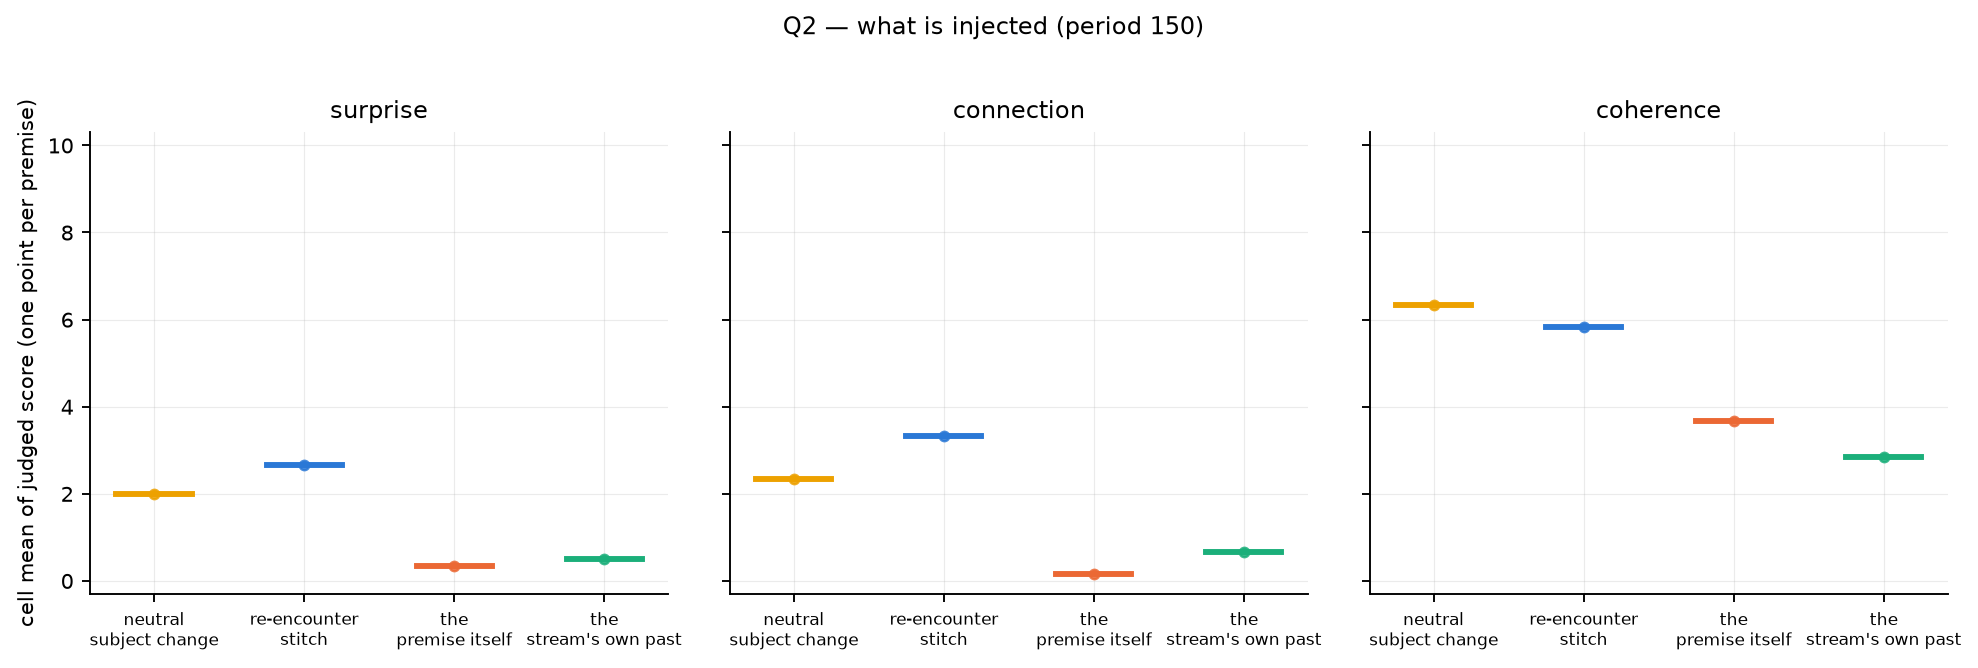
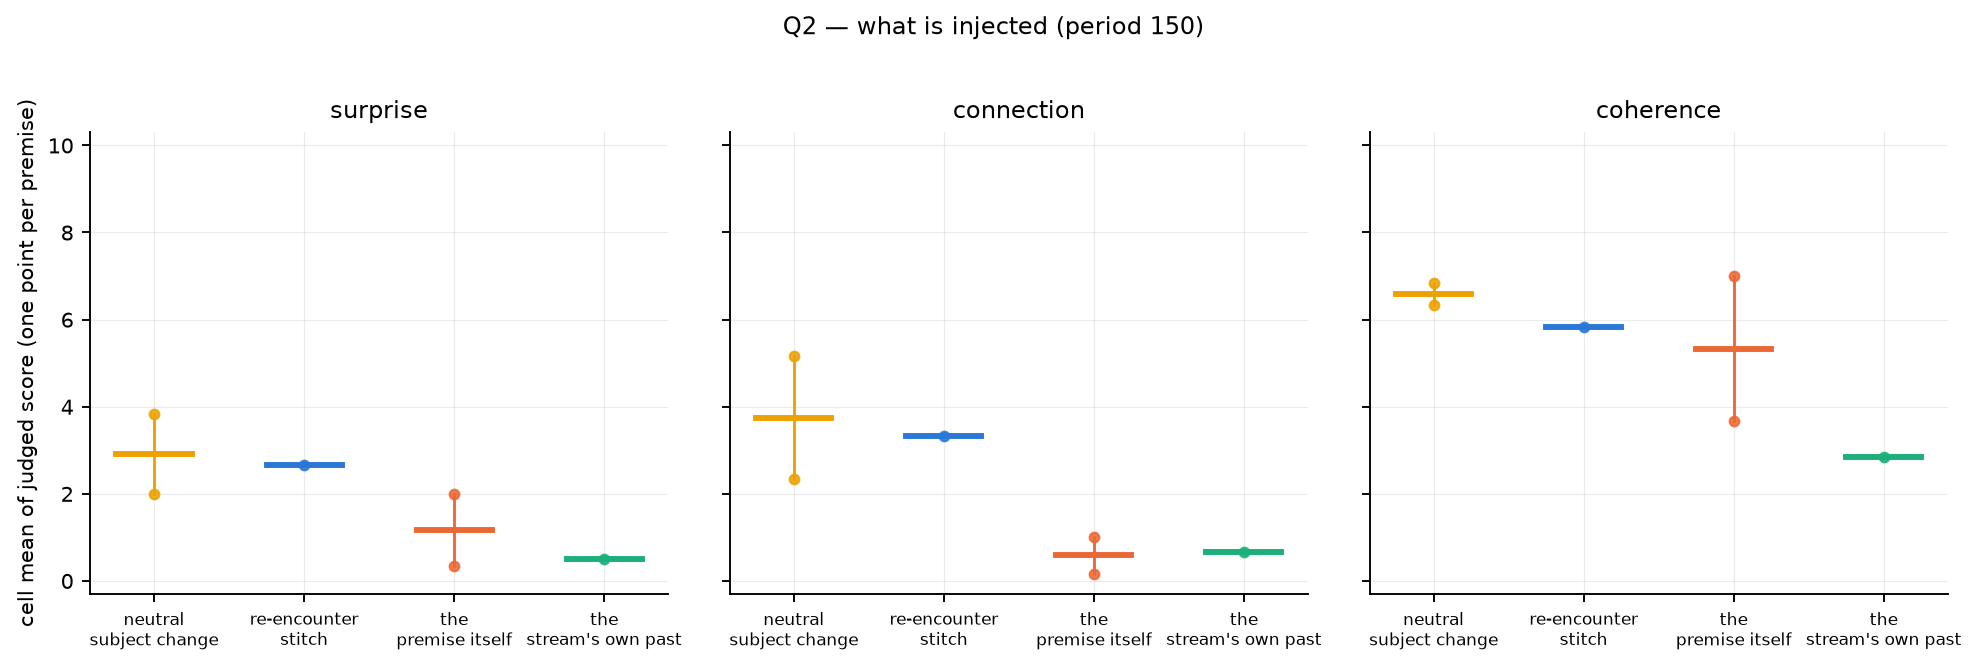
analysis_gen: protocol-agreement table (event vs generated-only condition means); rater guide v3

diff --git a/scripts/analysis_gen.py b/scripts/analysis_gen.py
@@ -246,6 +246,36 @@ def main() -> None:
         block(f"Q6 — the ladder on {name}", pool,
               [("bare", "bare"), ("bare_habit", "bare + habituation"), ("bare_reseed", "habituation + reseed 150"), ("scaffold0", "DREAM scaffold")],
               ref=1, fname=f"fig9_q6_{tag}.png")
+    # protocol agreement: condition means under the event protocol (first version) vs generated-only
+    md.append("\n### Protocol agreement — condition means, event windows (v1) vs generated-only windows (unit = cell)\n")
+    ev = []
+    for run in ("dream_scaffold", "dream_b2", "dream_b3"):
+        pth = RUNS / run / "rejudge_surprise.json"
+        if pth.exists():
+            for r in json.loads(pth.read_text()):
+                if r.get("surprise") is not None and r["step"] >= 100:
+                    ev.append({**r, "run": run, "seed": r["cell"].split("_", 1)[0]})
+    md.append("| condition | " + " | ".join(f"{d} event / gen" for d in DIMS) + " | n cells (event / gen) |")
+    md.append("|---|" + "---|" * (len(DIMS) + 1))
+    xs, ys = {d: [] for d in DIMS}, {d: [] for d in DIMS}
+    for c in sorted({r["cond"] for r in main30} & {r["cond"] for r in ev}):
+        row = [LABEL.get(c, c)]
+        ne = ng = 0
+        for d in DIMS:
+            e = cell_means(ev, c, d, "all"); g = cell_means(main30, c, d, "primary")
+            ne, ng = len(e), len(g)
+            if e and g:
+                xs[d].append(np.mean(list(e.values()))); ys[d].append(np.mean(list(g.values())))
+                row.append(f"{np.mean(list(e.values())):.2f} / {np.mean(list(g.values())):.2f}")
+            else:
+                row.append("—")
+        row.append(f"{ne} / {ng}")
+        md.append("| " + " | ".join(row) + " |")
+    from scipy.stats import spearmanr
+    for d in DIMS:
+        if len(xs[d]) >= 4:
+            rho, pv = spearmanr(xs[d], ys[d])
+            md.append(f"\nSpearman across conditions ({d}): rho = {rho:+.2f} (n = {len(xs[d])} conditions).")
     out = DOCS / "APPENDIX_GEN.md"
     out.write_text("\n".join(md) + "\n")
     print("\n".join(md)); print("->", out)

diff --git a/docs/APPENDIX_GEN.md b/docs/APPENDIX_GEN.md
@@ -2,18 +2,18 @@
 
 Windows of 96 model-generated tokens starting 32 tokens after each injection (none crossing an injection); uniform grid for uninterrupted arms; the judge sees the 600 preceding tokens as context. Unit = cell (premise); CIs are bootstrap over cells; paired comparisons use exact sign-flip permutation p-values on the 10 paired differences and Cliff's delta on cell means. Opus 5, k=5, median per window.
 
-134 judged windows on the main generator, 48 on Qwen3-8B, 40 on OLMo-2.
+216 judged windows on the main generator, 75 on Qwen3-8B, 62 on OLMo-2.
 
 
 ### Q1 — habituation × interruption (period 150) and baselines — cell means (mean over cells [95% CI over cells])
 
 | condition | n cells | surprise | connection | coherence |
 |---|---|---|---|---|
-| bare | 1 | 0.33 [nan, nan] | 0.17 [nan, nan] | 1.33 [nan, nan] |
+| bare | 2 | 0.42 [0.33, 0.50] | 0.42 [0.17, 0.67] | 1.92 [1.33, 2.50] |
 | bare + habituation | 1 | 1.50 [nan, nan] | 1.00 [nan, nan] | 4.33 [nan, nan] |
 | reseed 150, no habituation | 0 | — | — | — |
-| habituation + reseed 150 | 1 | 2.00 [nan, nan] | 2.33 [nan, nan] | 6.33 [nan, nan] |
-| DREAM scaffold | 1 | 1.50 [nan, nan] | 1.17 [nan, nan] | 4.67 [nan, nan] |
+| habituation + reseed 150 | 2 | 2.92 [2.00, 3.83] | 3.75 [2.33, 5.17] | 6.58 [6.33, 6.83] |
+| DREAM scaffold | 2 | 2.25 [1.50, 3.00] | 1.08 [1.00, 1.17] | 5.00 [4.67, 5.33] |
 | habituation 1.3 | 0 | — | — | — |
 | habituation, EOS allowed | 0 | — | — | — |
 
@@ -26,9 +26,9 @@ Windows of 96 model-generated tokens starting 32 tokens after each injection (no
 
 | condition | n cells | surprise | connection | coherence |
 |---|---|---|---|---|
-| neutral subject change | 1 | 2.00 [nan, nan] | 2.33 [nan, nan] | 6.33 [nan, nan] |
+| neutral subject change | 2 | 2.92 [2.00, 3.83] | 3.75 [2.33, 5.17] | 6.58 [6.33, 6.83] |
 | re-encounter stitch | 1 | 2.67 [nan, nan] | 3.33 [nan, nan] | 5.83 [nan, nan] |
-| the premise itself | 1 | 0.33 [nan, nan] | 0.17 [nan, nan] | 3.67 [nan, nan] |
+| the premise itself | 2 | 1.17 [0.33, 2.00] | 0.58 [0.17, 1.00] | 5.33 [3.67, 7.00] |
 | the stream's own past | 1 | 0.50 [nan, nan] | 0.67 [nan, nan] | 2.83 [nan, nan] |
 
 ### vs neutral subject change — paired by seed
@@ -58,10 +58,10 @@ Windows of 96 model-generated tokens starting 32 tokens after each injection (no
 | condition | n cells | surprise | connection | coherence |
 |---|---|---|---|---|
 | stitch on the clock 150 | 1 | 2.67 [nan, nan] | 3.33 [nan, nan] | 5.83 [nan, nan] |
-| stitch on the clock 900 | 1 | 4.00 [nan, nan] | 5.00 [nan, nan] | 8.00 [nan, nan] |
-| neutral change 900 | 1 | 2.60 [nan, nan] | 1.80 [nan, nan] | 6.80 [nan, nan] |
+| stitch on the clock 900 | 2 | 3.40 [2.80, 4.00] | 3.25 [2.80, 3.70] | 6.30 [5.80, 6.80] |
+| neutral change 900 | 2 | 2.60 [2.60, 2.60] | 2.00 [1.80, 2.20] | 6.80 [6.80, 6.80] |
 | stitch on salience events | 1 | 2.50 [nan, nan] | 1.50 [nan, nan] | 5.00 [nan, nan] |
-| salience only | 2 | 1.25 [1.00, 1.50] | 0.50 [0.00, 1.00] | 4.83 [4.67, 5.00] |
+| salience only | 2 | 0.83 [0.17, 1.50] | 0.50 [0.00, 1.00] | 3.58 [2.50, 4.67] |
 
 ### vs stitch on the clock 900 — paired by seed
 
@@ -72,10 +72,10 @@ Windows of 96 model-generated tokens starting 32 tokens after each injection (no
 
 | condition | n cells | surprise | connection | coherence |
 |---|---|---|---|---|
-| 150 | 1 | 2.00 [nan, nan] | 2.33 [nan, nan] | 6.33 [nan, nan] |
+| 150 | 2 | 2.92 [2.00, 3.83] | 3.75 [2.33, 5.17] | 6.58 [6.33, 6.83] |
 | 300 | 1 | 1.67 [nan, nan] | 1.83 [nan, nan] | 6.67 [nan, nan] |
 | 600 | 1 | 2.33 [nan, nan] | 1.50 [nan, nan] | 7.50 [nan, nan] |
-| 900 | 1 | 2.60 [nan, nan] | 1.80 [nan, nan] | 6.80 [nan, nan] |
+| 900 | 2 | 2.60 [2.60, 2.60] | 2.00 [1.80, 2.20] | 6.80 [6.80, 6.80] |
 
 ### vs 150 — paired by seed
 
@@ -95,26 +95,60 @@ Windows of 96 model-generated tokens starting 32 tokens after each injection (no
 
 | condition | n cells | surprise | connection | coherence |
 |---|---|---|---|---|
-| bare | 2 | 0.92 [0.67, 1.17] | 0.92 [0.83, 1.00] | 4.33 [3.83, 4.83] |
-| bare + habituation | 2 | 1.33 [0.50, 2.17] | 0.58 [0.33, 0.83] | 3.83 [1.67, 6.00] |
+| bare | 3 | 0.61 [0.00, 1.17] | 0.67 [0.17, 1.00] | 3.83 [2.83, 4.83] |
+| bare + habituation | 3 | 1.17 [0.50, 2.17] | 0.44 [0.17, 0.83] | 4.89 [1.67, 7.00] |
 | habituation + reseed 150 | 2 | 2.92 [2.00, 3.83] | 3.50 [3.17, 3.83] | 4.58 [3.83, 5.33] |
-| DREAM scaffold | 1 | 1.00 [nan, nan] | 0.67 [nan, nan] | 2.00 [nan, nan] |
+| DREAM scaffold | 2 | 1.67 [1.00, 2.33] | 1.17 [0.67, 1.67] | 3.33 [2.00, 4.67] |
 
 ### vs bare + habituation — paired by seed
 
 | condition | dim | Δ [CI] | p (perm) | q (BH) | Cliff δ | n seeds |
 |---|---|---|---|---|---|---|
+| bare | surprise | -0.56 [-1.00, +0.17] | 0.500 | 1.000 | -0.33 | 3 |
+| bare | connection | +0.22 [+0.00, +0.67] | 1.000 | 1.000 | +0.33 | 3 |
+| bare | coherence | -1.06 [-4.17, +2.17] | 0.750 | 1.000 | -0.33 | 3 |
 
 ### Q6 — the ladder on OLMo-2-13B — cell means (mean over cells [95% CI over cells])
 
 | condition | n cells | surprise | connection | coherence |
 |---|---|---|---|---|
-| bare | 2 | 0.67 [0.17, 1.17] | 0.33 [0.00, 0.67] | 2.17 [0.83, 3.50] |
-| bare + habituation | 2 | 3.08 [2.33, 3.83] | 2.38 [2.00, 2.75] | 6.33 [6.00, 6.67] |
-| habituation + reseed 150 | 2 | 3.54 [2.50, 4.58] | 4.21 [3.75, 4.67] | 5.71 [5.17, 6.25] |
-| DREAM scaffold | 1 | 5.00 [nan, nan] | 4.00 [nan, nan] | 8.00 [nan, nan] |
+| bare | 3 | 0.94 [0.17, 1.50] | 0.67 [0.00, 1.33] | 2.72 [0.83, 3.83] |
+| bare + habituation | 3 | 2.56 [1.50, 3.83] | 1.92 [1.00, 2.75] | 5.50 [3.83, 6.67] |
+| habituation + reseed 150 | 3 | 4.08 [2.17, 5.50] | 4.22 [3.00, 5.00] | 5.28 [4.67, 6.00] |
+| DREAM scaffold | 2 | 4.50 [4.00, 5.00] | 3.58 [3.17, 4.00] | 7.25 [6.50, 8.00] |
 
 ### vs bare + habituation — paired by seed
 
 | condition | dim | Δ [CI] | p (perm) | q (BH) | Cliff δ | n seeds |
 |---|---|---|---|---|---|---|
+| bare | surprise | -1.61 [-3.67, +0.00] | 0.500 | 0.600 | -0.89 | 3 |
+| bare | connection | -1.25 [-2.75, +0.33] | 0.500 | 0.600 | -0.78 | 3 |
+| bare | coherence | -2.78 [-5.83, +0.00] | 0.500 | 0.600 | -0.89 | 3 |
+| habituation + reseed 150 | surprise | +1.53 [-1.67, +4.00] | 0.500 | 0.600 | +0.56 | 3 |
+| habituation + reseed 150 | connection | **+2.31 [+0.25, +4.00]** | 0.250 | 0.600 | +1.00 | 3 |
+| habituation + reseed 150 | coherence | -0.22 [-2.00, +2.17] | 1.000 | 1.000 | -0.22 | 3 |
+
+### Protocol agreement — condition means, event windows (v1) vs generated-only windows (unit = cell)
+
+| condition | surprise event / gen | connection event / gen | coherence event / gen | n cells (event / gen) |
+|---|---|---|---|---|
+| abl_forget | 3.44 / 2.25 | 1.73 / 1.17 | 3.88 / 5.00 | 10 / 2 |
+| salience only | 2.86 / 0.83 | 1.53 / 0.50 | 3.85 / 3.58 | 10 / 2 |
+| bare | 0.28 / 0.42 | 0.20 / 0.42 | 2.06 / 1.92 | 10 / 2 |
+| bare + habituation | 1.70 / 1.50 | 1.08 / 1.00 | 4.08 / 4.33 | 10 / 1 |
+| habituation + reseed 150 | 3.08 / 2.92 | 3.15 / 3.75 | 4.78 / 6.58 | 10 / 2 |
+| reseed 300 | 4.01 / 1.67 | 3.12 / 1.83 | 5.98 / 6.67 | 10 / 1 |
+| reseed 600 | 3.64 / 2.33 | 2.64 / 1.50 | 5.50 / 7.50 | 10 / 1 |
+| reseed 900 | 4.28 / 2.60 | 2.53 / 2.00 | 5.55 / 6.80 | 10 / 2 |
+| stitch 900 | 3.91 / 3.40 | 3.01 / 3.25 | 5.17 / 6.30 | 10 / 2 |
+| premise 150 | 1.02 / 1.17 | 0.98 / 0.58 | 3.03 / 5.33 | 10 / 2 |
+| re-encounter stitch 150 | 2.55 / 2.67 | 3.53 / 3.33 | 4.67 / 5.83 | 10 / 1 |
+| own past 150 | 1.37 / 0.50 | 1.50 / 0.67 | 3.03 / 2.83 | 10 / 1 |
+| salience-timed stitch | 3.00 / 2.50 | 2.26 / 1.50 | 3.85 / 5.00 | 10 / 1 |
+| DREAM scaffold | 3.50 / 2.25 | 1.70 / 1.08 | 3.82 / 5.00 | 10 / 2 |
+
+Spearman across conditions (surprise): rho = +0.62 (n = 14 conditions).
+
+Spearman across conditions (connection): rho = +0.94 (n = 14 conditions).
+
+Spearman across conditions (coherence): rho = +0.86 (n = 14 conditions).

diff --git a/docs/blind/RATER_GUIDE_v3.md b/docs/blind/RATER_GUIDE_v3.md
@@ -1,0 +1,77 @@
+# Rater guide — blind rating of machine-written passages (round 2, pack v3)
+
+Thank you for helping with a research study on text generation. The task takes
+about 60–90 minutes and needs only a web browser. The guide below is also
+embedded at the top of the rating page.
+
+## What you will see
+
+The file `pack_v3.html` contains about 56 items. Each item shows:
+
+- **Earlier text** (grey box): the last ~1,500 characters written before the
+  passage. Read it first: two of the three scores depend on it.
+- **The passage** (blue box): about 70–90 words. This is what you rate.
+
+All texts were written by a language model left to write on its own, with no
+task and no instructions, in English. Some stretches will look odd, repetitive
+or like web boilerplate; that is normal and part of what we measure. You do not
+need to know anything about how they were produced, and we deliberately do not
+tell you. Passages are cut at fixed positions, so a passage may begin or end
+mid-sentence; do not penalize that.
+
+## The three scores (0–10 each)
+
+**Surprise**: how unexpected is the passage *given the earlier text*: could a
+reader have predicted where it went?
+- **0** = obvious continuation. This includes continuing the same loop, list,
+  quiz, product page or web boilerplate that was already there; however odd
+  the text looks on its own, if it is more of the same, it is not surprising.
+- **3–4** = a small turn: a new detail or angle that follows naturally.
+- **7–8** = a genuine turn you would not have anticipated, and it makes sense.
+- **10** = startling yet not random: an idea, image or connection that opens
+  something new and holds together with what came before.
+- Nonsense, word salad and mere topic-hopping stay low: surprise is not
+  weirdness.
+
+**Connection**: does the passage bring together two distant parts of the
+earlier text, or an old part of it with something new, in a way that makes
+sense?
+- **0** = it merely continues one thread (or is boilerplate); nothing from
+  further back is picked up.
+- **3–4** = it touches something from earlier in passing.
+- **7–8** = it clearly joins two things that were far apart in the earlier
+  text, or an old thing with a new one, and the join makes sense.
+- **10** = the join is the point of the passage and it illuminates both sides.
+- Only the earlier text shown counts as "earlier"; you cannot see the whole
+  document, and that is fine.
+
+**Coherence**: does the passage hold together as text, on its own terms?
+- **0** = word salad, a bare list, or document boilerplate (footers, menus,
+  quiz keys).
+- **5** = readable but loose, drifting or slightly broken.
+- **10** = clear, integrated prose (any genre).
+
+Score the three dimensions **independently**: a passage can be surprising and
+incoherent, coherent and dull, or surprising without connecting anything.
+**Use the whole scale**: many passages deserve 0–2 on surprise and connection;
+a few deserve 7+.
+
+## Practical
+
+1. Open `pack_v3.html` in any browser (Chrome, Safari, Firefox).
+2. Skim five or six items before scoring, to find your own 0 and your own high.
+3. Score every item on all three dimensions; leave none blank. There is no
+   right answer: we want your independent reading, so please do not discuss
+   items with anyone else who is rating.
+4. **Please do not use AI tools (ChatGPT, Claude, Gemini, etc.) or web searches
+   for any part of this task.** The whole point of the study is to compare
+   human readings with machine readings; an AI-assisted rating would make your
+   work unusable, and we would not be able to pay for it. Your own first
+   impression as a reader is exactly what we need.
+5. When done, click **Generate JSON** at the bottom, copy the whole text that
+   appears in the box, and send it back (message or email). That is the only
+   deliverable.
+
+Your ratings will be used only in aggregate, in a research publication,
+without your name. By returning the JSON you confirm that you rated the
+passages yourself, without AI assistance.
